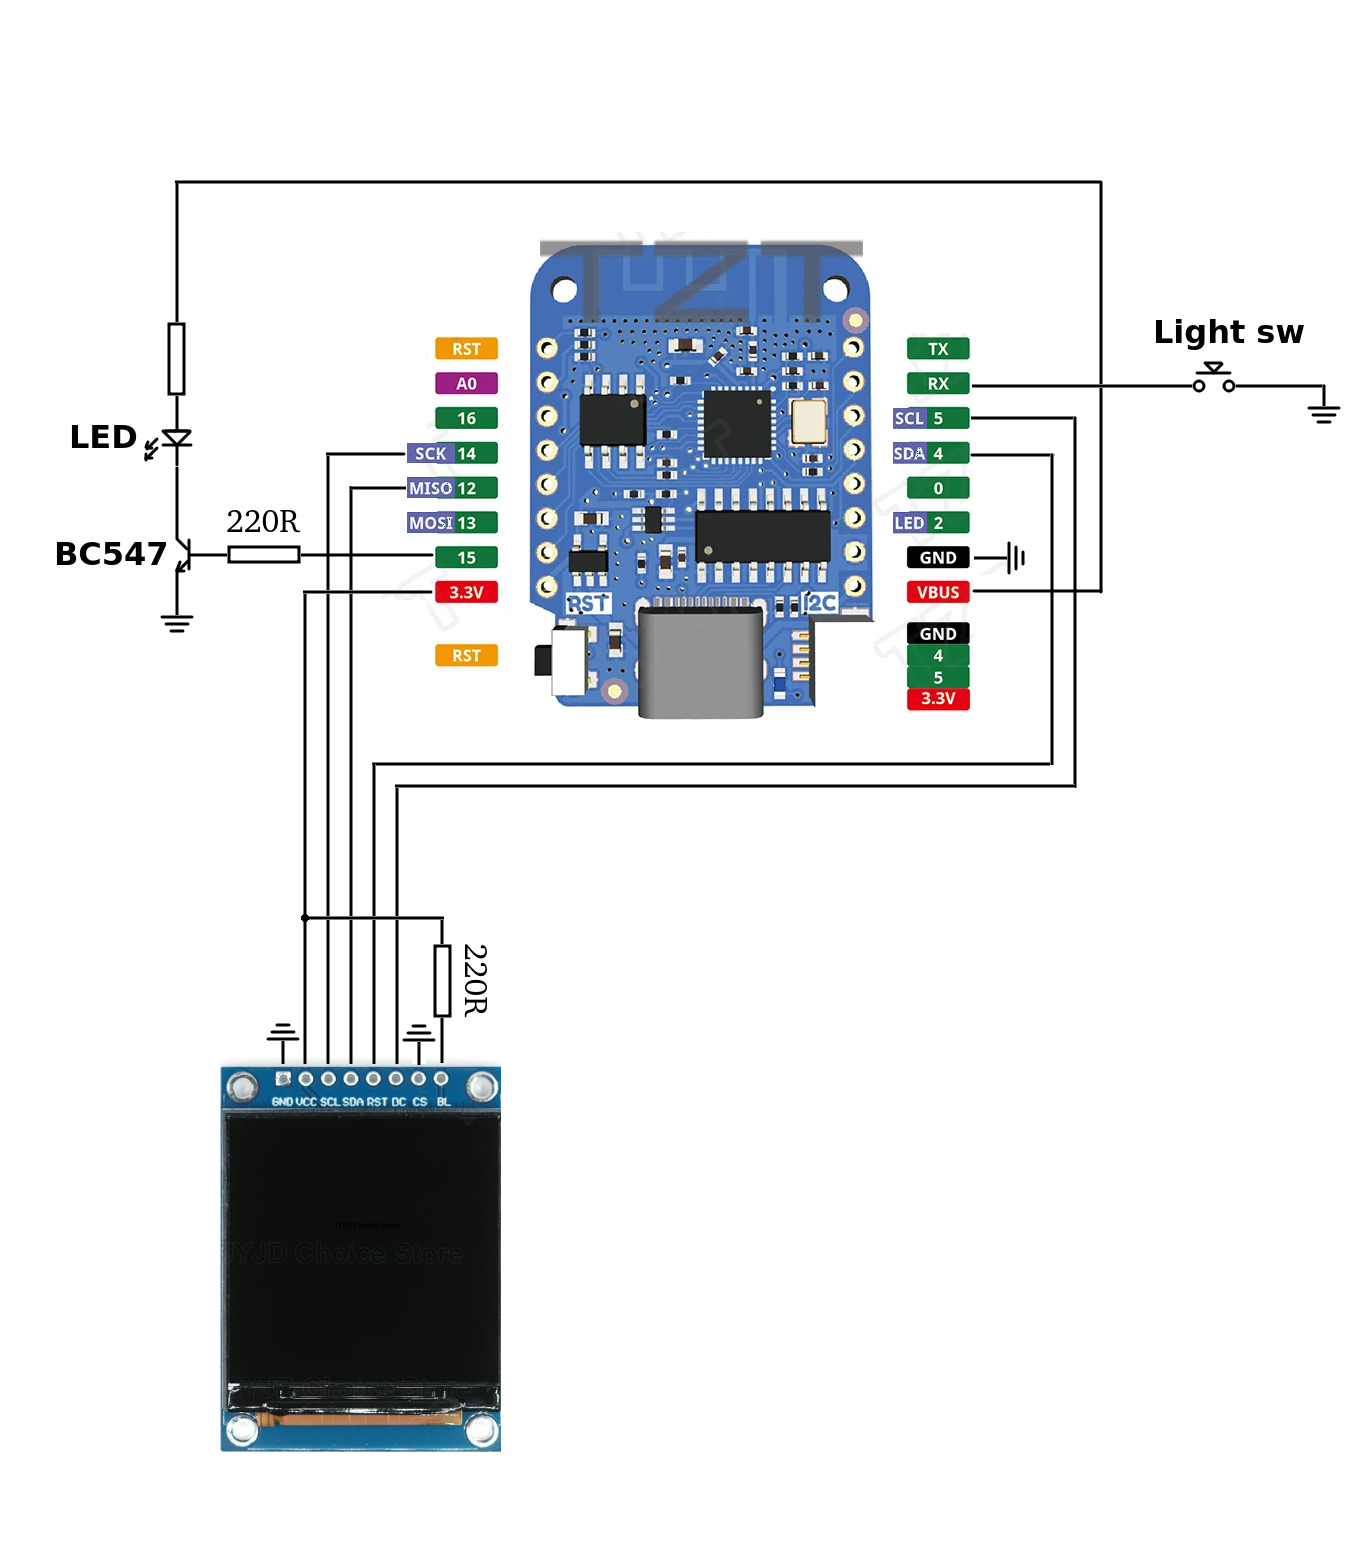
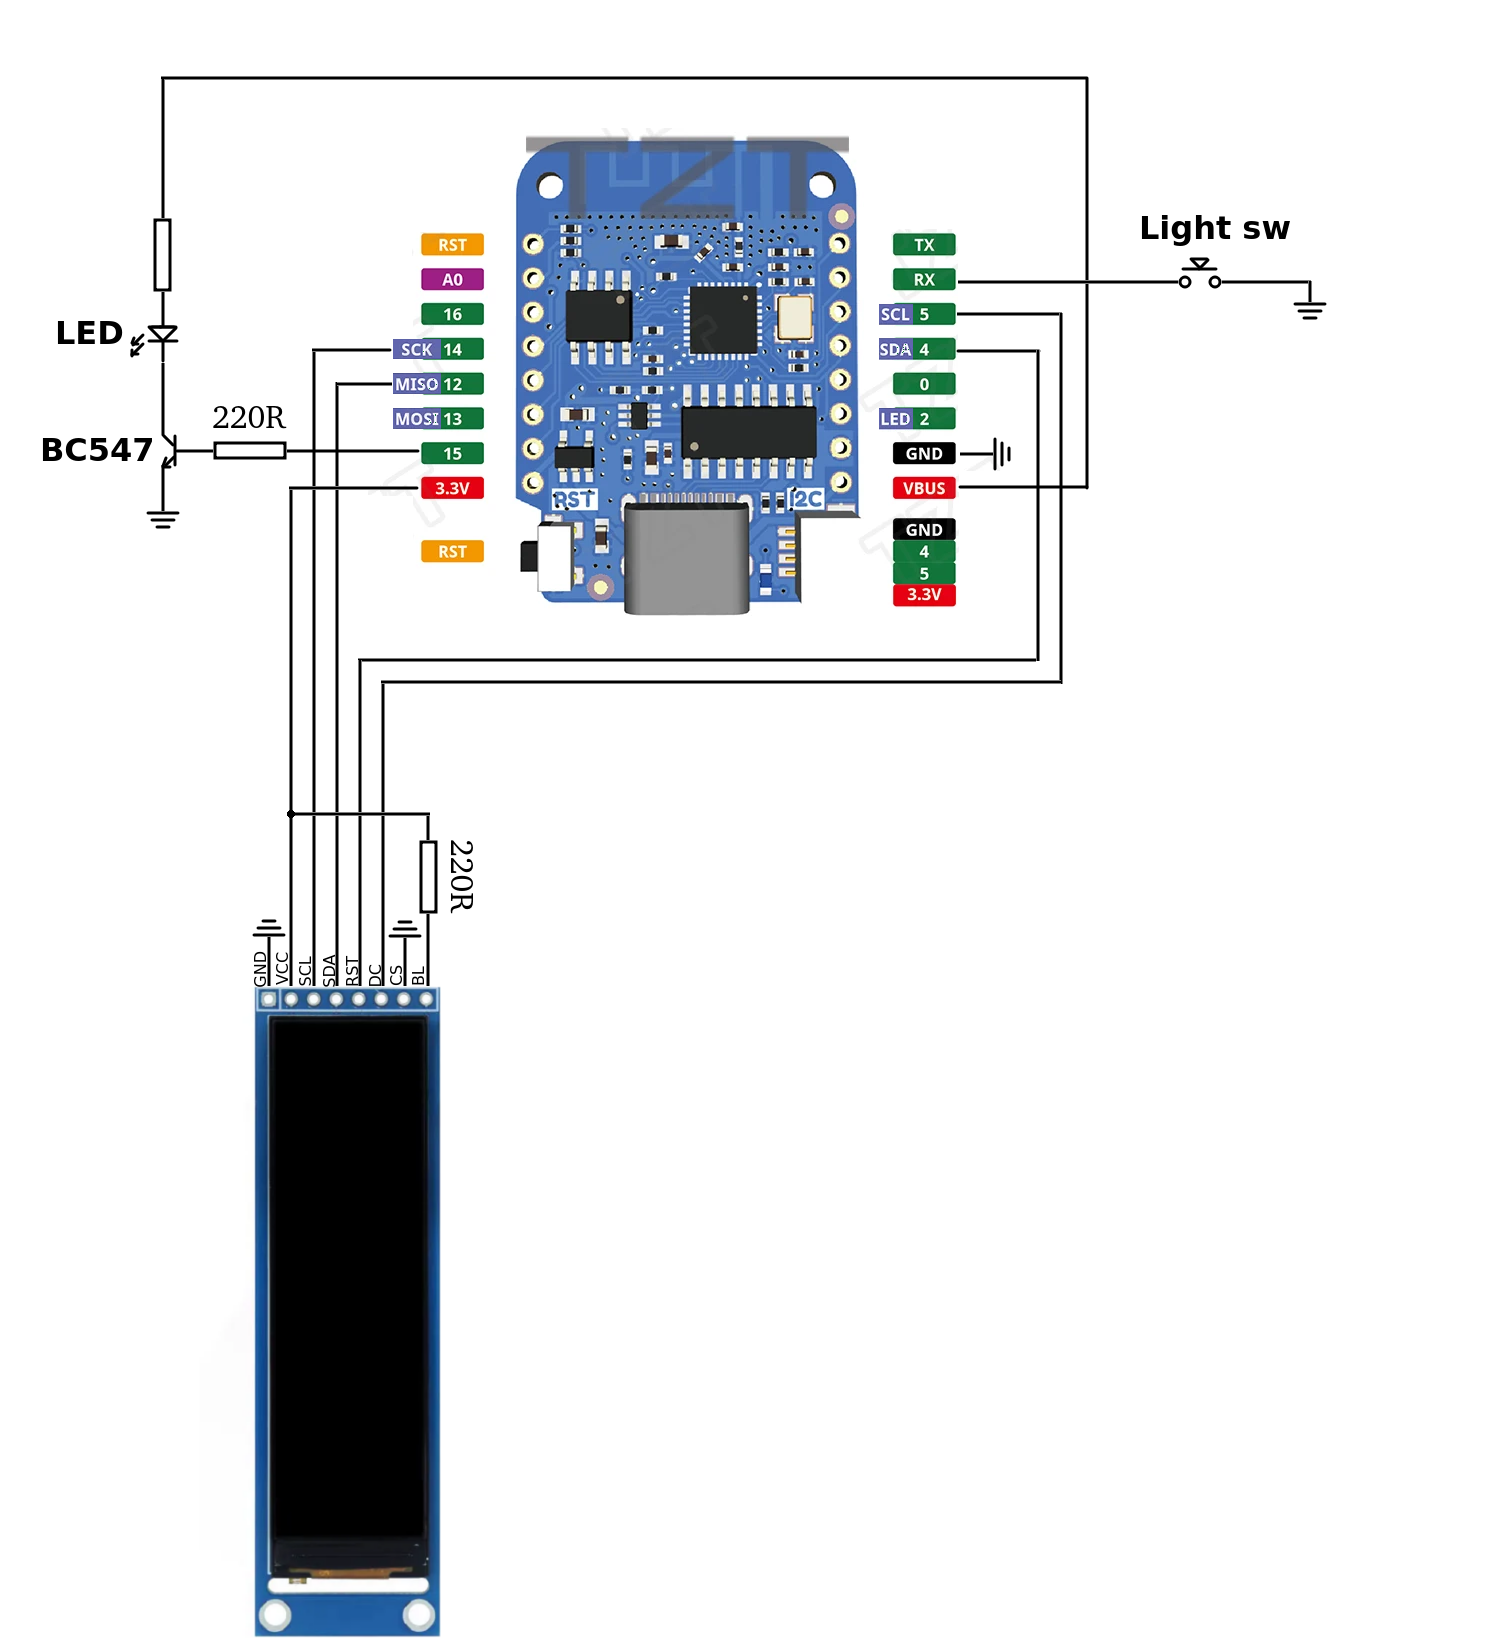
Update

diff --git a/ESP_LCD_Lamp/lcd_display.cpp b/ESP_LCD_Lamp/lcd_display.cpp
@@ -6,58 +6,17 @@
 
 Adafruit_ST7789 tft = Adafruit_ST7789(TFT_CS, TFT_DC, TFT_RST);
 
-void drawSnowflake(int x, int y, int r, uint16_t color) {
-  const float branchLen = 0.4;      // how long the side branches are (0.4 * r)
-  const float branchOffset1 = 0.55; // location along arm (55%)
-  const float branchOffset2 = 0.8;  // second location (80%)
-
-  for (int i = 0; i < 6; i++) {
-    float ang = i * 60 * DEG_TO_RAD;
-
-    // main arm
-    int x2 = x + r * cos(ang);
-    int y2 = y + r * sin(ang);
-    tft.drawLine(x, y, x2, y2, color);
-
-    // two branch positions on each arm
-    for (float k : {branchOffset1, branchOffset2}) {
-      int bx = x + (r * k) * cos(ang);
-      int by = y + (r * k) * sin(ang);
-
-      // +30° branch
-      float ang1 = ang + 30 * DEG_TO_RAD;
-      int b1x = bx + (r * branchLen) * cos(ang1);
-      int b1y = by + (r * branchLen) * sin(ang1);
-
-      // -30° branch
-      float ang2 = ang - 30 * DEG_TO_RAD;
-      int b2x = bx + (r * branchLen) * cos(ang2);
-      int b2y = by + (r * branchLen) * sin(ang2);
-
-      tft.drawLine(bx, by, b1x, b1y, color);
-      tft.drawLine(bx, by, b2x, b2y, color);
-    }
-  }
-}
-
 void LCD_init() 
 {
   SPI.begin(); // default hardware SPI pins, no need to pass pins
-  tft.init(240, 240, SPI_MODE3);
+  tft.init(284, 76, SPI_MODE1);
 
   tft.fillScreen(C_BLACK);
   tft.setCursor(0, 0);
   tft.setTextColor(C_BLUE);
   tft.setTextSize(3);
-  tft.println(" Secret Santa\n");
-  tft.setTextColor(C_GREEN);
-  tft.setTextSize(8);
-  tft.println("Clock");
-
-  drawSnowflake(40, 180, 25, C_WHITE);
-  drawSnowflake(90, 140, 25, C_WHITE);
-  drawSnowflake(140, 170, 25, C_WHITE);
-  drawSnowflake(190, 130, 25, C_WHITE);
+  tft.println(" Ivanin sat\n");
+  tft.setTextColor(C_GREEN);  
 }
 
 void LCD_clear()

diff --git a/ESP_LCD_Lamp/config.h b/ESP_LCD_Lamp/config.h
@@ -11,8 +11,8 @@
 #define BTN_PIN   3
 
 #define AP_MODE_TIMEOUT_S       (60)              // After this period since startup, try to connect as wifi client.
-#define AP_NAME_PREFIX          "SecretSantaClk_" // Will be appended by device MAC
-#define AP_PASS                 "hoho1234"
+#define AP_NAME_PREFIX          "LcdClk_"         // Will be appended by device MAC
+#define AP_PASS                 "pass1234"
 
 #define REGION                  "Europe/Belgrade" // Required to fetch correct timezone with respect to daylight savings
 #define NTP_SYNC_H              (4)               // Sync time every 4 hours

diff --git a/README.md b/README.md
@@ -1,6 +1,8 @@
 # ESP OLED Lamp
-The purpose is to combine an ESP8266 module and an 1.54" SPI LCD module to create a WiFi controlled clock/lamp 
-I used an D1 Mini module. A BC547 transistor is used as a switch.
+The purpose is to combine an ESP8266 module and an SPI LCD module to create a WiFi controlled clock/lamp 
+I used an D1 Mini as WiFi module ans a BC547 transistor as a switch.
+
+This main git branch contains the code I used for an LCD with resolution 76x284px and is intended to be placed horizontally. There is another git branch "tft240x240" intended for an LCD with resolution 240x240px. 
 
 The device spins up an HTTP server which is tied to the AP, so after the device connects to an external WiFi as station, this web server will not be available on that network, but only on the initial AP.
 Spinning a second HTTP web server can be done on same port, but for the second interface, but it takes a lot of RAM, so might crash.
